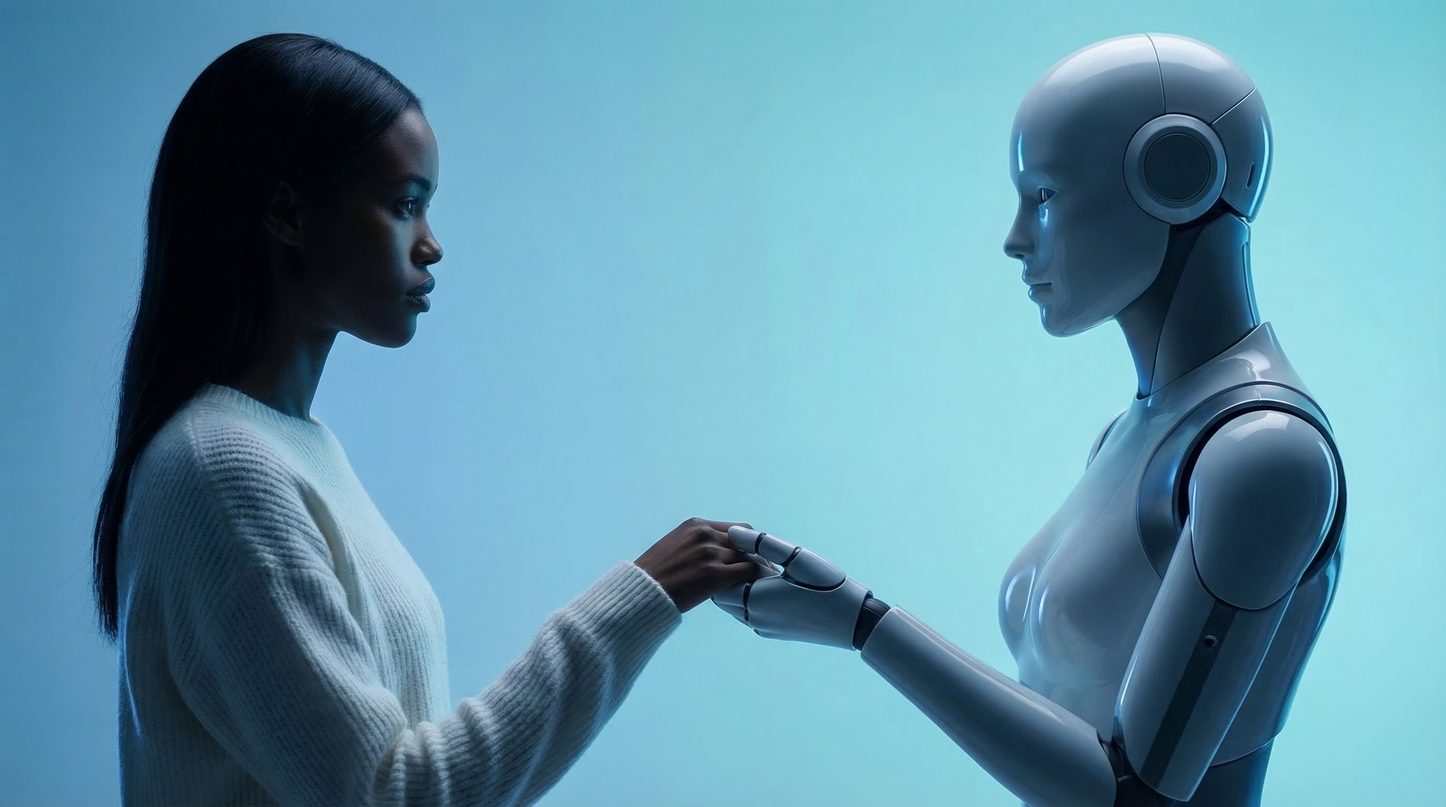
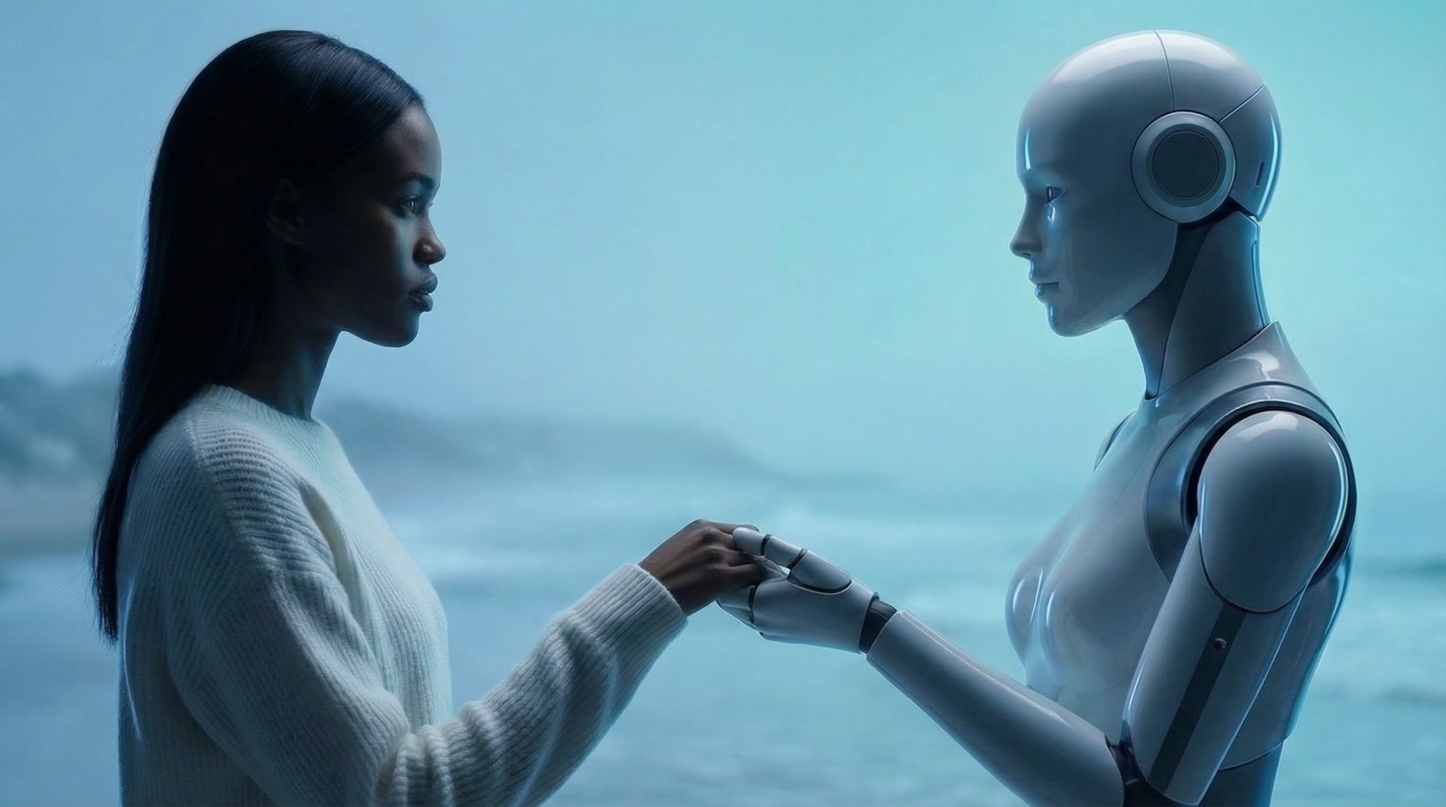
Update the visual for the data engine section with a new image
Replace the placeholder image in the 'Metrics' section with a new image of a woman and robot. This also involves updates to build manifests and font configurations.

Replit-Commit-Author: Agent
Replit-Commit-Session-Id: c3cf9c18-2fc8-4d94-878e-f342f821b202
Replit-Commit-Checkpoint-Type: full_checkpoint
Replit-Commit-Event-Id: e5d201ff-3468-4231-a402-4de33d8005a9
Replit-Commit-Screenshot-Url: https://storage.googleapis.com/screenshot-production-us-central1/cd6e35b6-36a7-4cf7-a602-d12ee81f87d5/c3cf9c18-2fc8-4d94-878e-f342f821b202/Rrnja2Z
Replit-Helium-Checkpoint-Created: true

diff --git a/.next/dev/server/middleware-build-manifest.js b/.next/dev/server/middleware-build-manifest.js
@@ -3,22 +3,9 @@ globalThis.__BUILD_MANIFEST = {
     "/_app": []
   },
   "devFiles": [],
-  "polyfillFiles": [
-    "static/chunks/node_modules_next_dist_build_polyfills_polyfill-nomodule.js"
-  ],
+  "polyfillFiles": [],
   "lowPriorityFiles": [],
-  "rootMainFiles": [
-    "static/chunks/[turbopack]_browser_dev_hmr-client_hmr-client_ts_956a0d3a._.js",
-    "static/chunks/node_modules_next_dist_compiled_react-dom_1e674e59._.js",
-    "static/chunks/node_modules_next_dist_compiled_react-server-dom-turbopack_9212ccad._.js",
-    "static/chunks/node_modules_next_dist_compiled_next-devtools_index_1dd7fb59.js",
-    "static/chunks/node_modules_next_dist_compiled_a0e4c7b4._.js",
-    "static/chunks/node_modules_next_dist_client_17643121._.js",
-    "static/chunks/node_modules_next_dist_f3530cac._.js",
-    "static/chunks/node_modules_@swc_helpers_cjs_d80fb378._.js",
-    "static/chunks/_a0ff3932._.js",
-    "static/chunks/turbopack-_23a915ee._.js"
-  ]
+  "rootMainFiles": []
 };
 globalThis.__BUILD_MANIFEST.lowPriorityFiles = [
 "/static/" + process.env.__NEXT_BUILD_ID + "/_buildManifest.js",

diff --git a/.next/dev/server/next-font-manifest.js b/.next/dev/server/next-font-manifest.js
@@ -1,1 +1,1 @@
-self.__NEXT_FONT_MANIFEST="{\n  \"app\": {\n    \"[project]/app/book/page\": [\n      \"static/media/5c27158bc5efb2d9-s.p.db674ee2.woff2\",\n      \"static/media/fd3f2d7cff5f3729-s.p.6cff3a18.woff2\",\n      \"static/media/d88fc5ebcdbec3b6-s.p.b5ae0f11.woff2\",\n      \"static/media/202f69fb654d2e8e-s.p.7b953fae.woff2\"\n    ],\n    \"[project]/app/page\": [\n      \"static/media/5c27158bc5efb2d9-s.p.db674ee2.woff2\",\n      \"static/media/fd3f2d7cff5f3729-s.p.6cff3a18.woff2\",\n      \"static/media/d88fc5ebcdbec3b6-s.p.b5ae0f11.woff2\",\n      \"static/media/202f69fb654d2e8e-s.p.7b953fae.woff2\"\n    ]\n  },\n  \"appUsingSizeAdjust\": true,\n  \"pages\": {},\n  \"pagesUsingSizeAdjust\": false\n}"
+self.__NEXT_FONT_MANIFEST="{\n  \"app\": {},\n  \"appUsingSizeAdjust\": false,\n  \"pages\": {},\n  \"pagesUsingSizeAdjust\": false\n}"

diff --git a/.next/dev/server/server-reference-manifest.js b/.next/dev/server/server-reference-manifest.js
@@ -1,1 +1,1 @@
-self.__RSC_SERVER_MANIFEST="{\n  \"node\": {},\n  \"edge\": {},\n  \"encryptionKey\": \"wuNNfcAF4CtXpTPW3nH+4xYHPmaT2M3g9T+PKERHYgU=\"\n}"
+self.__RSC_SERVER_MANIFEST="{\n  \"node\": {},\n  \"edge\": {},\n  \"encryptionKey\": \"akVWYHh2yKZS2lGne+PXj4Q6bzJGoilakMqR5R3/AoM=\"\n}"
